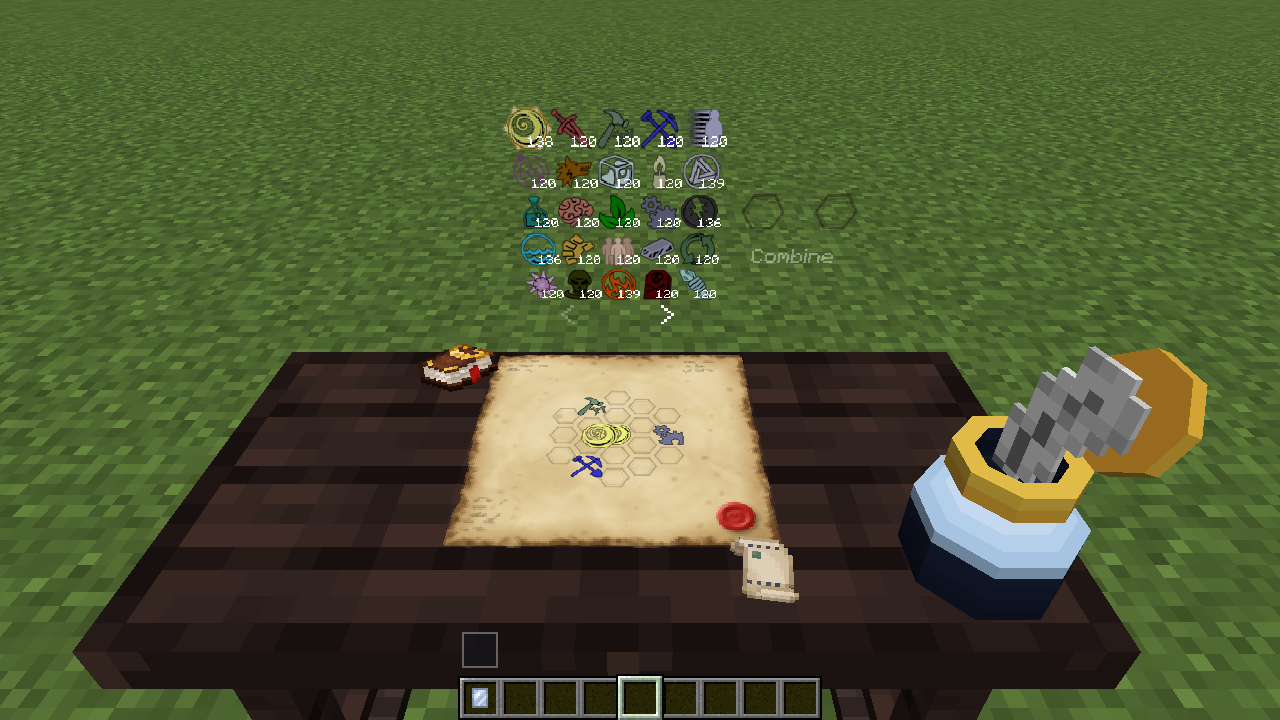
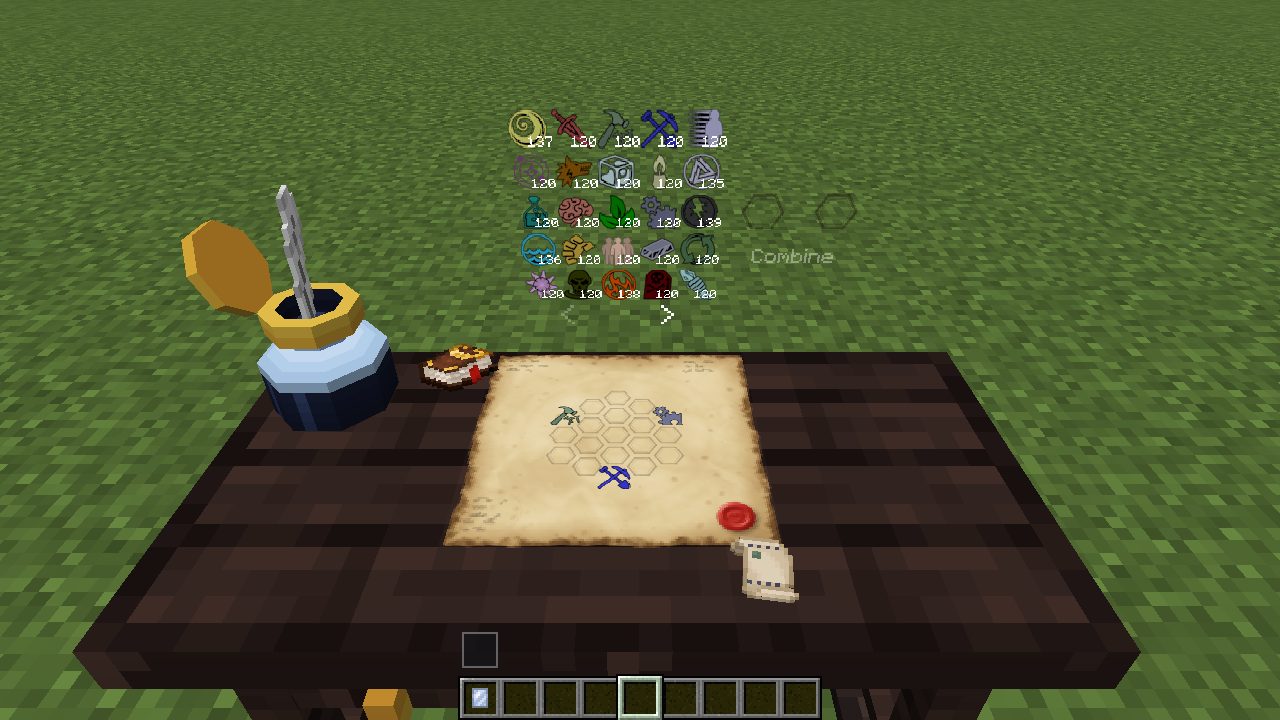
Research table worked from its front: one station on the main half, the inkwell always in the far left corner; 0.1.4
Claude-Session: https://claude.ai/code/session_01BQEUemARYQYQZPmNhrfX44

diff --git a/src/main/java/net/handsonthaumaturge/station/ResearchStation.java b/src/main/java/net/handsonthaumaturge/station/ResearchStation.java
@@ -43,7 +43,11 @@ public final class ResearchStation {
             .schema(SCHEMA)
             .logic(ResearchLogic::new)
             .openWhen(ResearchStation::opens)
-            .orientation(StationType.Orientation.PLAYER)
+            // One station for the whole table, on its main half, seen from the side that puts Thaumaturge's inkwell in the far
+            // left corner, whichever way the table stands and whichever side the player comes from (as a furnace is always worked
+            // from its front). BLOCK is turned a quarter for this table by OrientationMixin.
+            .anchor((level, pos, state) -> isMain(state) ? pos : Thaum.otherHalf(state, pos))
+            .orientation(StationType.Orientation.BLOCK)
             .build();
 
     private ResearchStation() {
@@ -51,6 +55,25 @@ public final class ResearchStation {
 
     public static void register() {
         Diegesis.register(TYPE);
+    }
+
+    /** Whether a research table block is its main half (the one with the block entity). */
+    public static boolean isMain(BlockState state) {
+        for (net.minecraft.world.level.block.state.properties.Property<?> property : state.getProperties()) {
+            if ("part".equals(property.getName())) {
+                return "main".equals(state.getValue(property).toString().toLowerCase(java.util.Locale.ROOT));
+            }
+        }
+        return true;
+    }
+
+    /**
+     * The side the table is worked from: its main half's facing points to the other half, and seen from its clockwise side
+     * the inkwell Thaumaturge draws at the main half's outer end, on its counter-clockwise side, lies in the far left corner.
+     */
+    public static net.minecraft.core.Direction front(BlockState state) {
+        net.minecraft.core.Direction facing = state.getValue(net.minecraft.world.level.block.state.properties.BlockStateProperties.HORIZONTAL_FACING);
+        return isMain(state) ? facing.getClockWise() : facing.getCounterClockWise();
     }
 
     /** Sneaking keeps Thaumaturge's screen; either half of the table opens the station. */

diff --git a/src/devtools/java/net/handsonthaumaturge/devtools/ShotDriver.java b/src/devtools/java/net/handsonthaumaturge/devtools/ShotDriver.java
@@ -149,9 +149,11 @@ public final class ShotDriver {
         then("east shot", 5, () -> shot("10_table_east"));
         then("leave again", 40, ShotDriver::leave);
         // The table turned every way, the player always north of it looking south.
-        for (Direction facing : new Direction[]{Direction.WEST, Direction.SOUTH}) {
+        for (Direction facing : new Direction[]{Direction.WEST, Direction.SOUTH, Direction.NORTH}) {
             then("turn " + facing, 30, () -> placeTable(facing));
-            then("stand " + facing, 20, () -> standBefore(TABLE));
+            // From the south this time: the station is worked from the same side whichever way the player comes.
+            then("stand " + facing, 20, () -> server(player -> player.teleportTo(player.serverLevel(), TABLE.getX() + 0.5 + (facing == Direction.SOUTH ? 1.6 : 0),
+                    TABLE.getY(), TABLE.getZ() + (facing == Direction.SOUTH ? 0.5 : 2.6), facing == Direction.SOUTH ? 90.0F : 180.0F, 45.0F)));
             then("aim " + facing, 5, () -> lookAt(TABLE));
             then("open " + facing, 90, ShotDriver::use);
             then("hover tools " + facing, 10, ShotDriver::hoverTools);
@@ -220,10 +222,6 @@ public final class ShotDriver {
             var f = com.leclowndu93150.thaumaturge.content.research.table.BlockResearchTable.FACING;
             var part = com.leclowndu93150.thaumaturge.content.research.table.BlockResearchTable.PART;
             BlockPos other = TABLE.relative(facing);
-            if (other.equals(TABLE.north())) {
-                // The player stands north of the table: the other half there would stand where they do.
-                return;
-            }
             level.setBlockAndUpdate(TABLE, table.setValue(f, facing)
                     .setValue(part, com.leclowndu93150.thaumaturge.content.research.table.ResearchTablePart.MAIN));
             level.setBlockAndUpdate(other, table.setValue(f, facing.getOpposite())

diff --git a/src/main/java/net/handsonthaumaturge/mixin/OrientationMixin.java b/src/main/java/net/handsonthaumaturge/mixin/OrientationMixin.java
@@ -1,0 +1,30 @@
+package net.handsonthaumaturge.mixin;
+
+import net.minecraft.core.Direction;
+import net.minecraft.core.registries.BuiltInRegistries;
+import net.minecraft.world.level.block.state.BlockState;
+import net.minecraft.world.level.block.state.properties.BlockStateProperties;
+import org.spongepowered.asm.mixin.Mixin;
+import org.spongepowered.asm.mixin.injection.At;
+import org.spongepowered.asm.mixin.injection.Inject;
+import org.spongepowered.asm.mixin.injection.callback.CallbackInfoReturnable;
+
+import com.pockyl.diegesis.api.station.StationType;
+
+import net.handsonthaumaturge.station.ResearchStation;
+import net.handsonthaumaturge.station.Thaum;
+
+/**
+ * Diegesis turns a BLOCK station to the block's facing; the research table's facing runs along it, and it is worked from its long
+ * side: for that table only, the facing is turned a quarter (see {@link ResearchStation#front}).
+ */
+@Mixin(value = StationType.Orientation.class, remap = false)
+abstract class OrientationMixin {
+    @Inject(method = "resolve", at = @At("HEAD"), cancellable = true)
+    private void handson$tableFromItsSide(BlockState state, Direction towardsPlayer, CallbackInfoReturnable<Direction> cir) {
+        if ((Object) this == StationType.Orientation.BLOCK && state.hasProperty(BlockStateProperties.HORIZONTAL_FACING)
+                && Thaum.RESEARCH_TABLE.equals(BuiltInRegistries.BLOCK.getKey(state.getBlock()))) {
+            cir.setReturnValue(ResearchStation.front(state));
+        }
+    }
+}

diff --git a/README.md b/README.md
@@ -11,7 +11,7 @@ the [Diegesis](https://modrinth.com/mod/diegesis-api) library in the spirit of
   enchanting table) in its primal's colour, flaring and turning while the recipe on the grid burns that crystal. Over the
   far edge stands the vis in the aura and what the recipe costs, red when the aura cannot pay it. Taking the result crafts
   through Thaumaturge's own workbench menu: arcane and vanilla recipes, research gates, wand and crystal payment.
-- **The research table** (either half opens it; the sheet lies in the middle of the whole table). The scribing tools go in where Thaumaturge draws its own inkwell and quill, the note lies in front. With
+- **The research table** (either half opens it; like a furnace it is always worked from its front, the side that puts the inkwell in the far left corner, the sheet in the middle of the whole table). The scribing tools go in where Thaumaturge draws its own inkwell and quill, the note lies in front. With
   a note in, its puzzle lies open on the table on parchment: Thaumaturge's hex grid, the aspects written in, the lines of the
   chains that connect. The aspects you know hang over the far edge as a panel of icons (five by five, paged as in the screen:
   the wheel or the arrows). Click one to take it up, click a blank hex to write it in, click a written one to rub it out.
